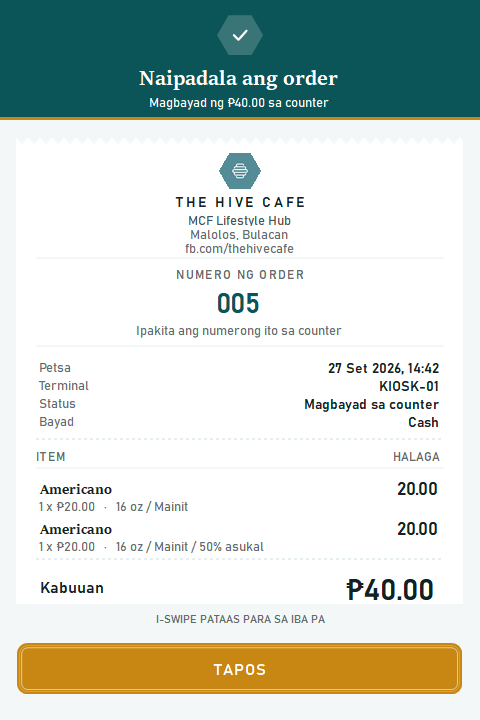
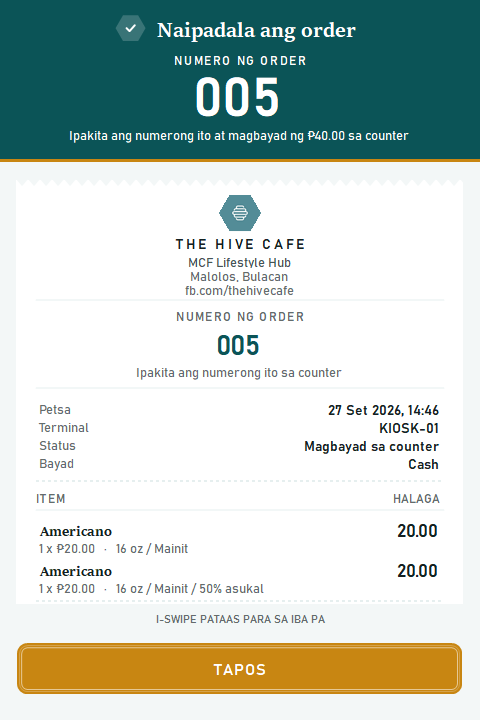
Make the order number the hero of the receipt screen
The number is the one thing the guest has to carry to the counter, but
it sat inside the scrolling receipt at the same size as the total. It
now leads the teal band at the top, which stays put while the receipt
scrolls, at 40pt: the largest text on the screen, with "Show this
number and pay P20.00 at the counter" beneath it. The check and title
share one line to make room, so the total still shows without
scrolling on a one-item order.

Changed region(s): [[0.0, 0.0, 1.0, 0.8556], [0.0625, 0.4889, 0.5625, 0.825]]

diff --git a/kiosk/Payments/ReceiptForm.cs b/kiosk/Payments/ReceiptForm.cs
@@ -14,7 +14,12 @@ namespace kiosk.Payments
 {
     public partial class ReceiptForm : Form
     {
-        private const int BandH = 120;
+        private const int BandH = 162;
+
+        // The one thing the guest has to carry to the counter, so it is the
+        // biggest text on the screen and sits in the band, which stays put
+        // while the receipt below scrolls.
+        internal static readonly Font NumberFont = Hive.Sized(Hive.PriceBig, 40f);
 
         private readonly List<Order> _orders;
         private readonly string _paymentMethod;
@@ -228,14 +233,26 @@ namespace kiosk.Payments
             using (SolidBrush rule = new SolidBrush(Hive.Honey))
                 g.FillRectangle(rule, 0, band.Height - 3, Width, 3);
 
-            RectangleF hex = new RectangleF(Width / 2f - 23, 12, 46, 46);
+            // check and title share one line, centred as a pair
+            string title = GuestText.T(_paymentMethod == "Cash" ? "Order placed" : "Demo order created");
+            int titleW = TextRenderer.MeasureText(g, title, Hive.Title).Width;   // with the padding DrawText adds
+            float pairX = (Width - (30 + 6 + titleW)) / 2f;
+            RectangleF hex = new RectangleF(pairX, 13, 30, 30);
             Hive.FillHex(g, hex, Color.FromArgb(48, 255, 255, 255));
-            Marks.Draw(g, Mark.Check, RectangleF.Inflate(hex, -13, -13), Color.White, 2.2f);
+            Marks.Draw(g, Mark.Check, RectangleF.Inflate(hex, -8.5f, -8.5f), Color.White, 2f);
+            Hive.Text(g, title, Hive.Title,
+                      new Rectangle((int)hex.Right + 6, 9, titleW + 4, 38), Color.White, Hive.LeftMid);
 
-            Hive.Text(g, _paymentMethod == "Cash" ? "Order placed" : "Demo order created", Hive.Title,
-                      new Rectangle(0, 60, Width, 32), Color.White, Hive.Centered);
-            Hive.Text(g, _paymentMethod == "Cash" ? "Please pay " + Hive.Money(_total) + " at the counter" : "No payment taken — " + _paymentMethod, Hive.Caption,
-                      new Rectangle(0, 92, Width, 20), Color.FromArgb(190, 255, 255, 255), Hive.Centered);
+            Hive.TextTracked(g, "ORDER NUMBER", Hive.Overline, new Rectangle(0, 52, Width, 16),
+                             Color.FromArgb(190, 255, 255, 255), 1.6f, true);
+            Hive.Text(g, _displayNumber, NumberFont,
+                      new Rectangle(0, 62, Width, 62), Color.White, Hive.Centered);
+
+            string next = _paymentMethod == "Cash"
+                ? string.Format(GuestText.T("Show this number and pay {0} at the counter"), Hive.Money(_total))
+                : "No payment taken — " + _paymentMethod;
+            Hive.Text(g, next, Hive.Caption,
+                      new Rectangle(0, 125, Width, 20), Color.FromArgb(215, 255, 255, 255), Hive.Centered);
 
             if (!string.IsNullOrEmpty(_saveError))
                 Hive.Text(g, _saveError, Hive.Caption,

diff --git a/tests/SmokeTests.cs b/tests/SmokeTests.cs
@@ -141,6 +141,9 @@ class SmokeTests
             Check(LocalStore.History(out unreadable).Count == 1 && unreadable == 1, "damaged record does not hide valid history");
             var demo = LocalStore.Submit("Card"); Check(demo.Status == "Demo - no payment taken", "card demo never marked paid");
             Check(demo.DisplayNumber == "002", "order numbers count up through the day");
+            var numberFont = (Font)typeof(ReceiptForm).GetField("NumberFont", BindingFlags.NonPublic | BindingFlags.Static).GetValue(null);
+            Check(numberFont.Size > Hive.PriceBig.Size && numberFont.Size > Hive.Display.Size,
+                "the order number is the largest text on the receipt screen");
             string ordersDir = Path.Combine(LocalStore.Root, "Orders");
             var yesterday = new SavedOrder { Id = DateTime.Now.AddDays(-1).ToString("yyyyMMdd") + "-235900-abc123", Number = 41,
                 Created = DateTime.Now.AddDays(-1), Method = "Cash", Status = "Pending counter payment", Lines = new System.Collections.Generic.List<Order>() };

diff --git a/kiosk/UI/GuestText.cs b/kiosk/UI/GuestText.cs
@@ -123,6 +123,7 @@ namespace kiosk.UI
             { "THIS IS NOT AN OFFICIAL RECEIPT", "HINDI ITO OPISYAL NA RESIBO" },
             { "ORDER NUMBER", "NUMERO NG ORDER" },
             { "Show this number at the counter", "Ipakita ang numerong ito sa counter" },
+            { "Show this number and pay {0} at the counter", "Ipakita ang numerong ito at magbayad ng {0} sa counter" },
             { "Keep this number for reference", "Itabi ang numerong ito bilang sanggunian" },
             { "SWIPE UP FOR MORE", "I-SWIPE PATAAS PARA SA IBA PA" },
             { "Date", "Petsa" }, { "Terminal", "Terminal" }, { "Payment", "Bayad" },
